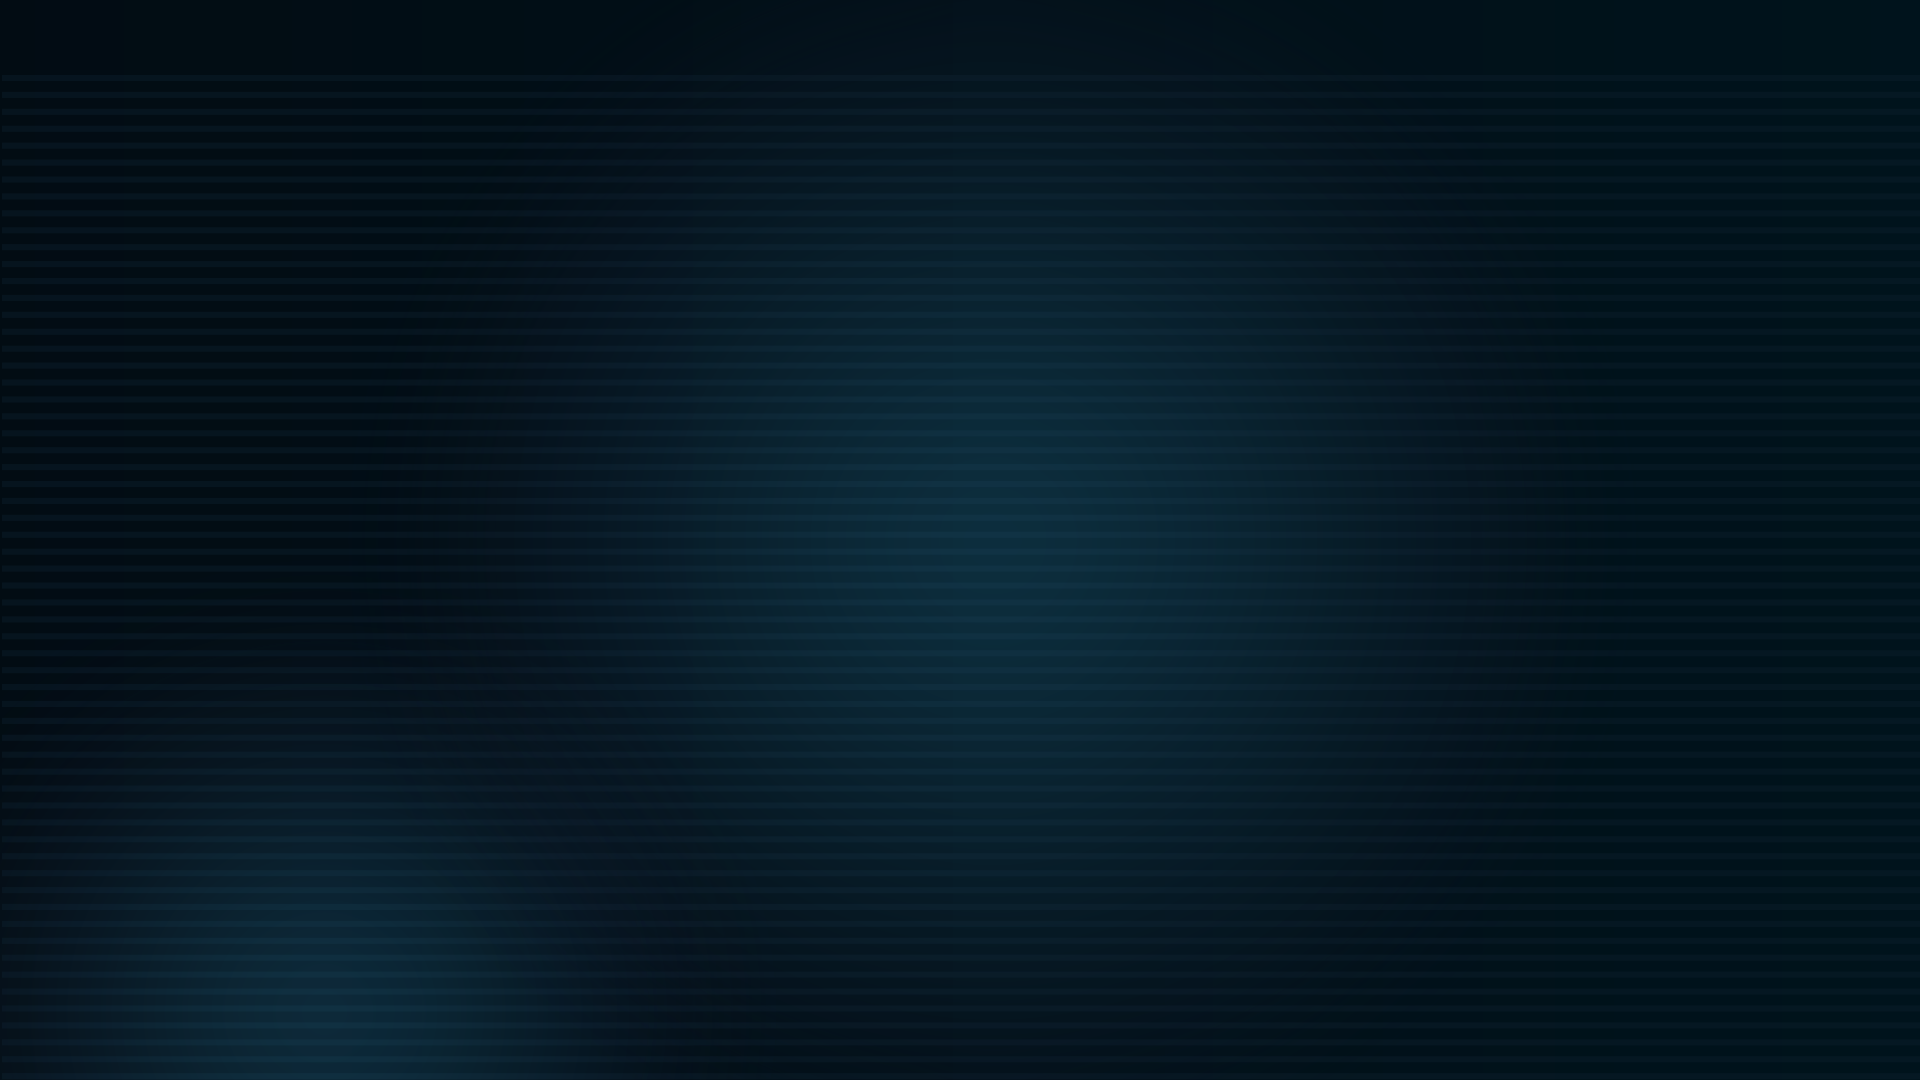
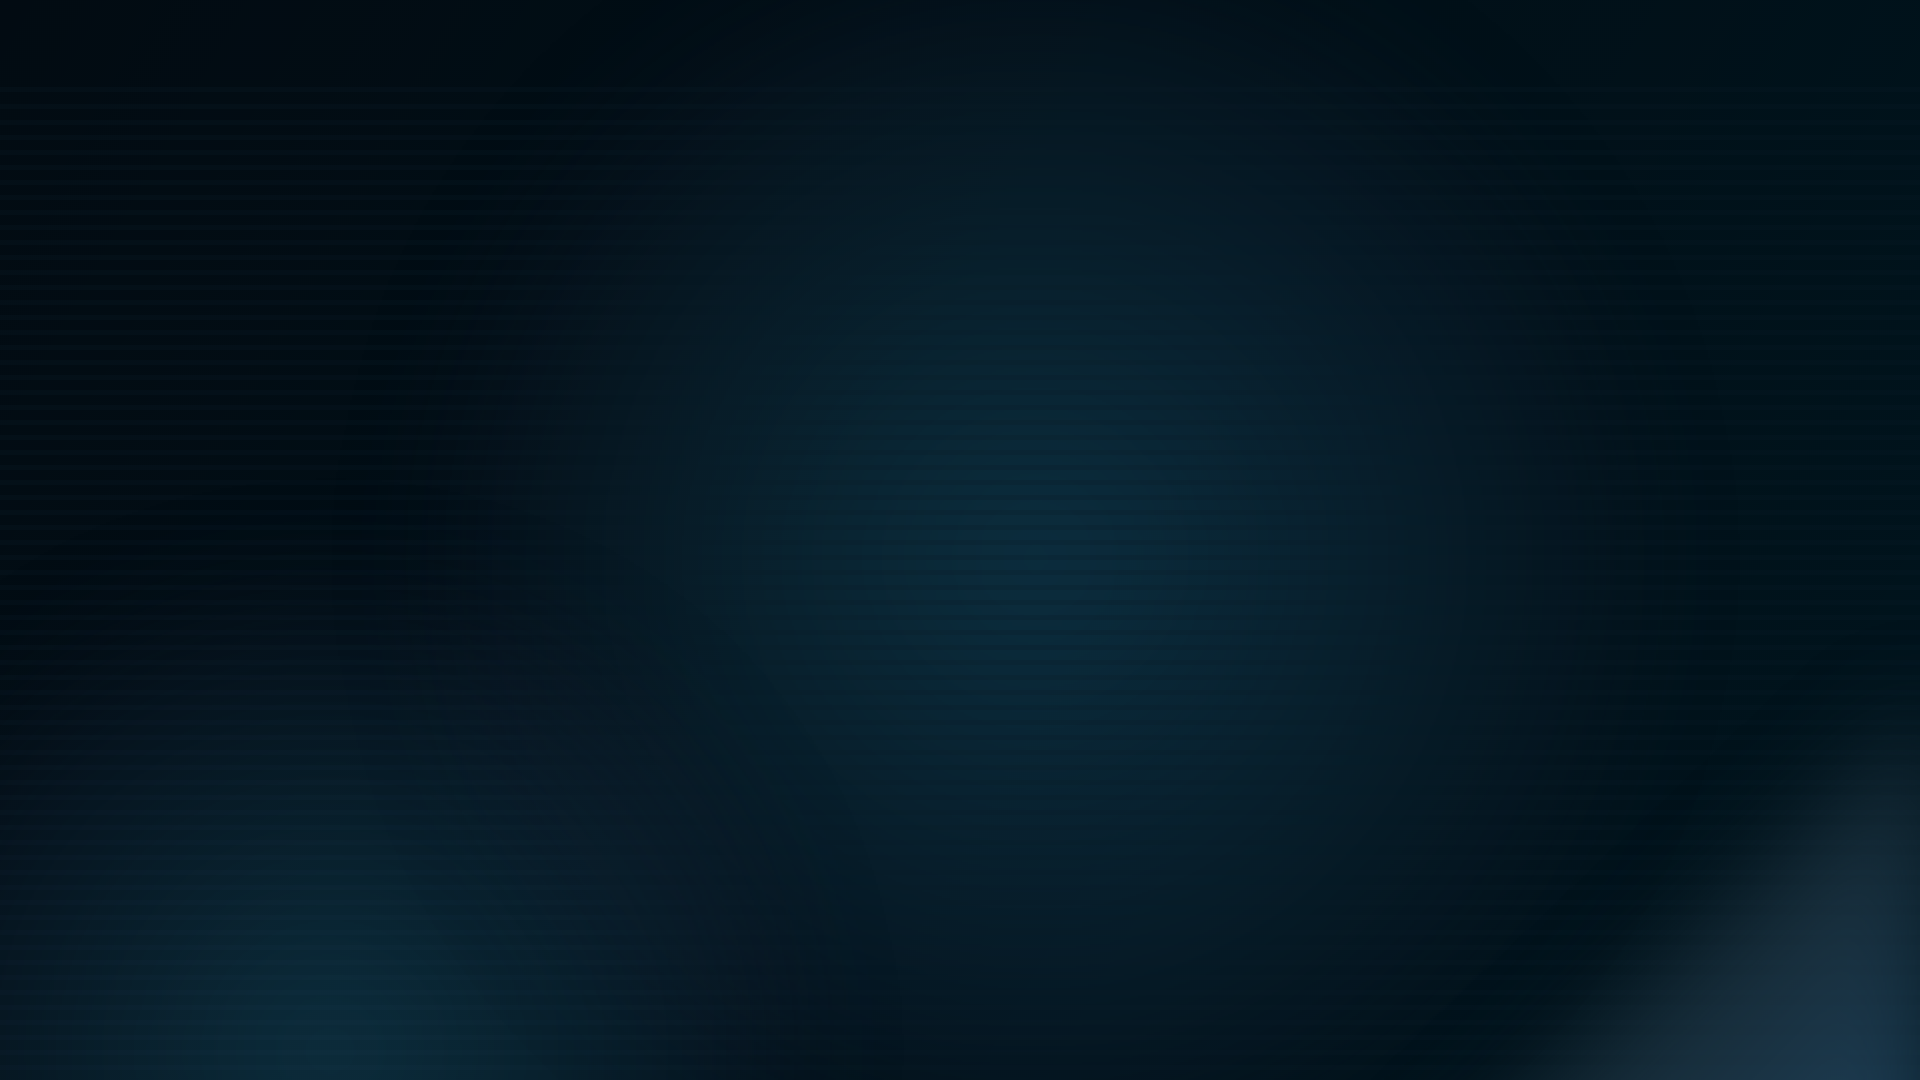
大屏和普屏背景图切换完成;  预置位切换时间修改;

Changed region(s): [[0.8438, 0.7639, 1.0, 1.0]]

diff --git a/src/App.vue b/src/App.vue
@@ -1,5 +1,5 @@
 <template>
-  <div id="app">
+  <div id="app" :class="[{'none': transperant},{'bigB': bgBack}]">
     <router-view/>
     <audio v-if="$store.state.user.isAlarm" :src="audio" loop="loop" autoplay="autoplay">
     </audio>
@@ -57,6 +57,12 @@ export default {
     ...mapState([
       'user'
     ]),
+    bgBack(){
+        return !this.transperant && window.screen.availWidth > 3000
+    },
+    transperant(){
+        return window.screen.availWidth > 3000 && parent.frames.length > 0
+    },
     alarmInfo(){
       return this.$store.state.user.isAlarm
     }
@@ -196,6 +202,13 @@ export default {
     overflow: hidden;
     background: #15222d;
     background: url('./assets/images/home-bg.png') no-repeat top left;
-    background-size: cover;
+    background-size: 100% 100%;
+    &.none{
+      background: transparent !important;
+    }
+    &.bigB{
+      background: url('./assets/images/home-B.png') no-repeat top left;
+      background-size: 100% 100%;
+    }
   }
 </style>

diff --git a/src/components/duno-m/cameraPanelBackUP/cameraPanel.vue b/src/components/duno-m/cameraPanelBackUP/cameraPanel.vue
@@ -257,10 +257,10 @@
                 selectValue: '3000',
                 timeOptions:[
                     { value:'3000', label: '3秒/控制位' },
-                    { value:'120000', label: '2分钟/控制位' },
-                    { value:'180000', label: '3分钟/控制位' },
-                    { value:'240000', label: '4分钟/控制位' },
-                    { value:'300000', label: '5分钟/控制位' }
+                    { value:'6000', label: '6秒/控制位' },
+                    { value:'9000', label: '9秒/控制位' },
+                    { value:'12000', label: '12秒/控制位' },
+                    { value:'15000', label: '15秒/控制位' }
                 ],
                 play:require('@/assets/camera/play.png'),
                 greenPoint:require('@/assets/camera/greenPoint.png'),

diff --git a/src/components/duno-m/cameraPopBackUP/cameraPop.vue b/src/components/duno-m/cameraPopBackUP/cameraPop.vue
@@ -80,11 +80,11 @@
         methods:{
             changeCameraShow(now){
                 this.cameraFlag = now
-                if(now == 'fifth'){
+              /*  if(now == 'fifth'){
                     this.$emit('chang-Point', 1)
                 }else{
                     this.$emit('chang-Point', -1)
-                }
+                }*/
             },
             onClose(data){
                 this.$emit('onClose',data, this.index, 'cameraFlagVisible')

diff --git a/src/views/communal/realEnv/index.vue b/src/views/communal/realEnv/index.vue
@@ -668,6 +668,9 @@
                 }
                 this.modeList[index][target] = now
                 this.$forceUpdate()
+              /*  this.changPoint(-1)
+                this.$refs.btnTopRef.handleCheckAllChange(true)
+                this.$refs.btnTopRef.checkAll = true*/
             },
             isOverlap(idOne,idTwo){
                 let objOne=$("#"+idOne),

diff --git a/src/components/historyfourthBackup/historyfourth.vue b/src/components/historyfourthBackup/historyfourth.vue
@@ -118,6 +118,11 @@ export default {
   }
 };
 </script>
+<style lang="scss">
+  .el-loading-text{
+    color: #969696   !important;
+  }
+</style>
 <style lang="scss" scoped>
 .historyfourth {
   .title {

diff --git a/src/style/index.scss b/src/style/index.scss
@@ -41,6 +41,10 @@
   }
 }
 
+body{
+  background: transparent !important;
+}
+
 body button.tableBtnName {
   margin: 0 2px;
   border: none;
